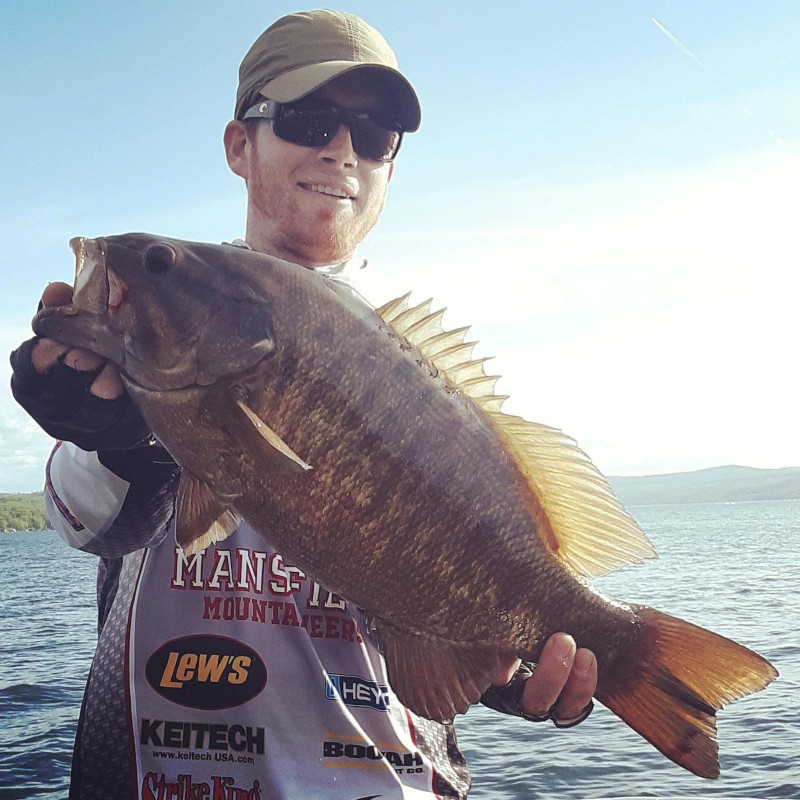
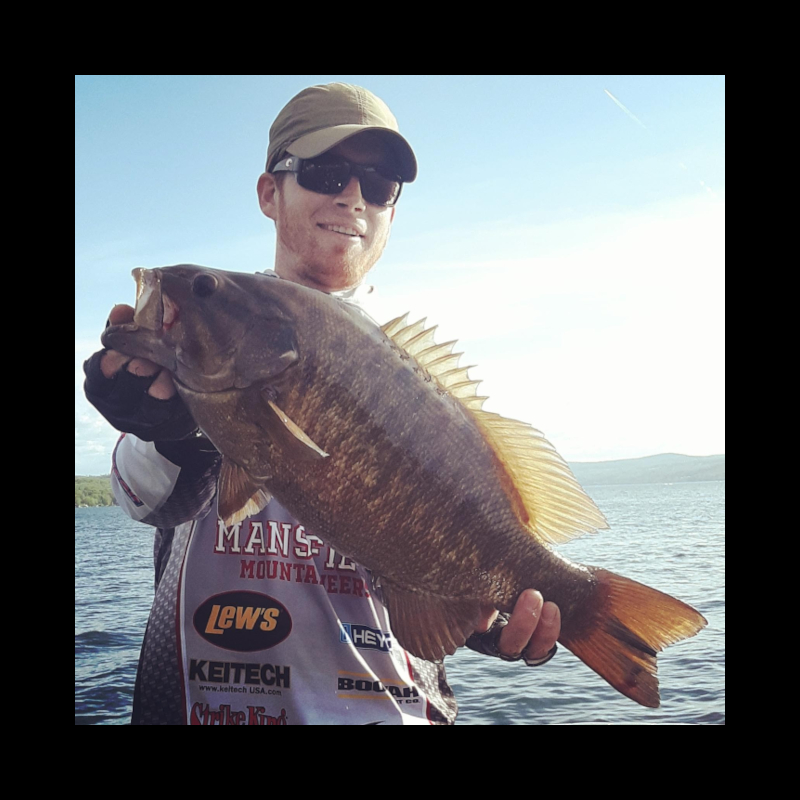
add border to 1st image

diff --git a/src/app/harbor/harbor.page.ts b/src/app/harbor/harbor.page.ts
@@ -1,4 +1,4 @@
-import { AfterContentChecked, Component, OnInit, ViewChild, ViewEncapsulation } from '@angular/core';
+import { AfterContentChecked, Component, ViewChild } from '@angular/core';
 import { SwiperComponent } from 'swiper/angular';
 import Swiper, { SwiperOptions, Autoplay, Pagination, EffectCube } from 'swiper';
 import { IonicSlides } from '@ionic/angular';
